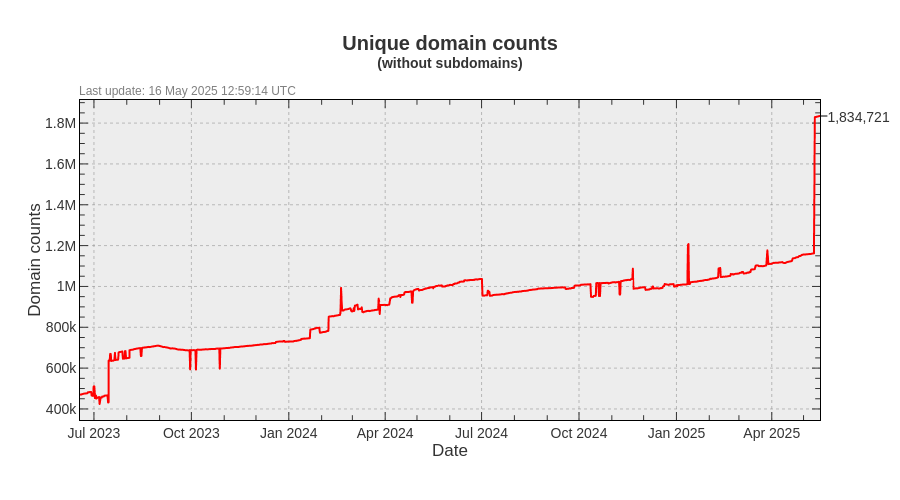
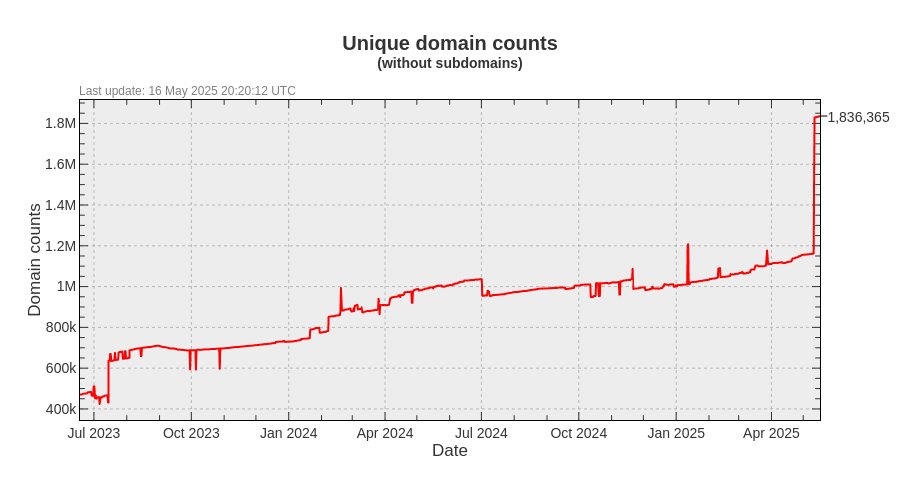
Update pages

diff --git a/README.md b/README.md
@@ -3,23 +3,23 @@ A blocklist file for blocking ads, trackers and malware domains.
 
[1 lines of base64/hex data omitted]
 
-- Unique domains: 2,461,618
-- Without subdomains: 1,834,721
-- Last update: 16 May 2025 12:59:14 UTC
-- Version: 2025.05.16.01
+- Unique domains: 2,464,403
+- Without subdomains: 1,836,365
+- Last update: 16 May 2025 20:20:12 UTC
+- Version: 2025.05.16.02
 
 
 ### Downloads:
 
 | Format             | Domain count      | Download Link |
 |:------------------ | -----------------:|:-------------:|
-| *Adblock Plus*     | 1,834,721 | [Download](https://dl.cenk.app/bad-hosts/bad-hosts-abp) |
-| *Wildcard domains* | 1,834,721 | [Download](https://dl.cenk.app/bad-hosts/bad-hosts-wildcard) |
-| *dnsmasq*          | 1,834,721 | [Download](https://dl.cenk.app/bad-hosts/bad-hosts-dnsmasq) |
-| *Unbound*          | 1,834,721 | [Download](https://dl.cenk.app/bad-hosts/bad-hosts-unbound) |
-| *hosts*            | 2,461,618 | [Download](https://dl.cenk.app/bad-hosts/hosts) |
-| *hosts (ipv6)*     | 2,461,618 | [Download](https://dl.cenk.app/bad-hosts/hosts-ipv6) |
-| *Plain domains*    | 2,461,618 | [Download](https://dl.cenk.app/bad-hosts/bad-hosts-domains) |
+| *Adblock Plus*     | 1,836,365 | [Download](https://dl.cenk.app/bad-hosts/bad-hosts-abp) |
+| *Wildcard domains* | 1,836,365 | [Download](https://dl.cenk.app/bad-hosts/bad-hosts-wildcard) |
+| *dnsmasq*          | 1,836,365 | [Download](https://dl.cenk.app/bad-hosts/bad-hosts-dnsmasq) |
+| *Unbound*          | 1,836,365 | [Download](https://dl.cenk.app/bad-hosts/bad-hosts-unbound) |
+| *hosts*            | 2,464,403 | [Download](https://dl.cenk.app/bad-hosts/hosts) |
+| *hosts (ipv6)*     | 2,464,403 | [Download](https://dl.cenk.app/bad-hosts/hosts-ipv6) |
+| *Plain domains*    | 2,464,403 | [Download](https://dl.cenk.app/bad-hosts/bad-hosts-domains) |
 
 ### Domain count history
 #### With subdomains
